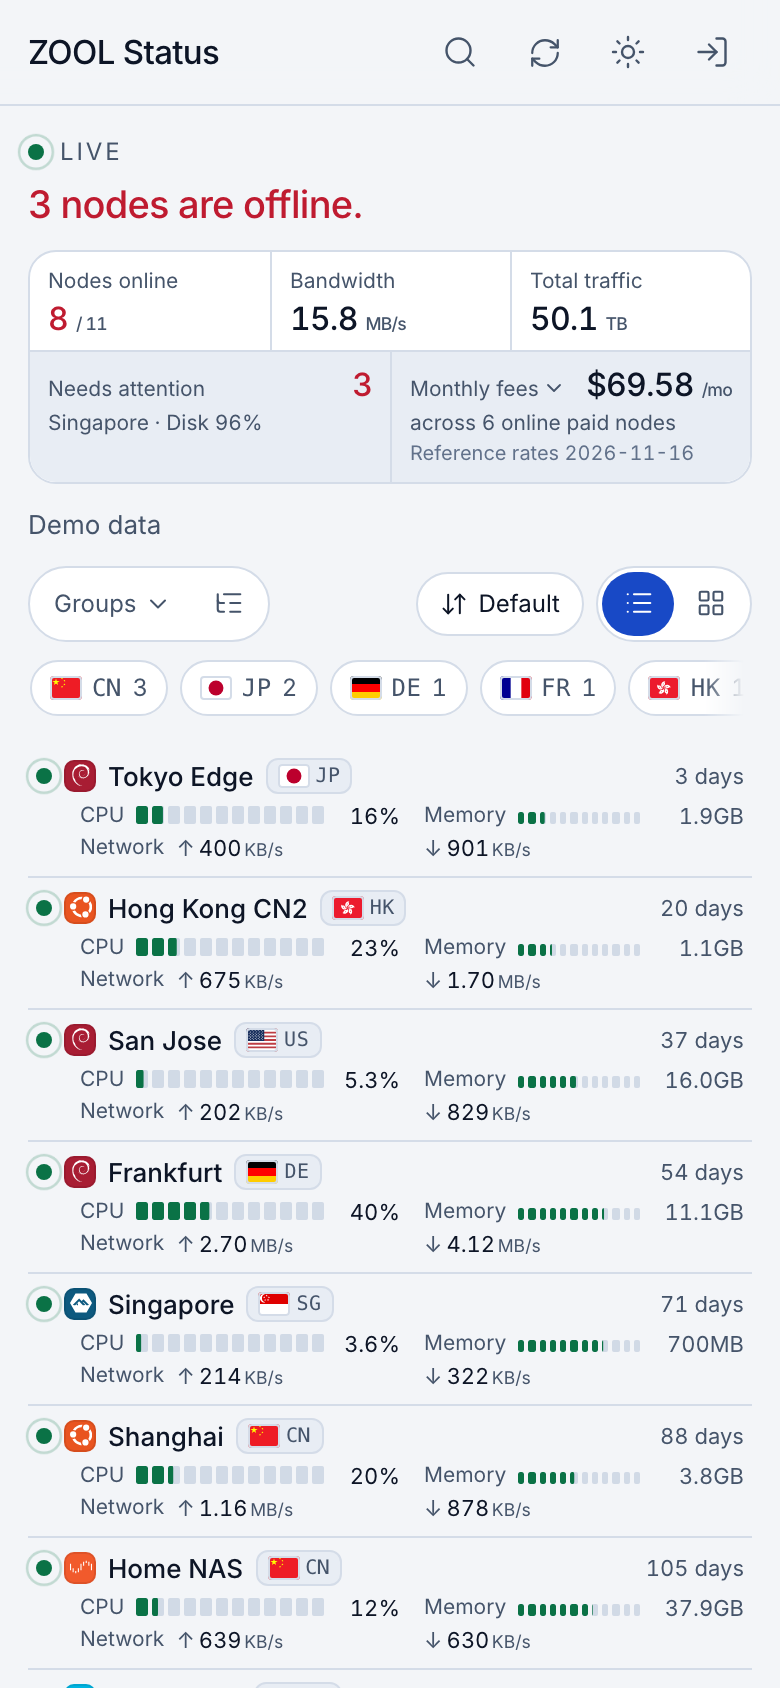
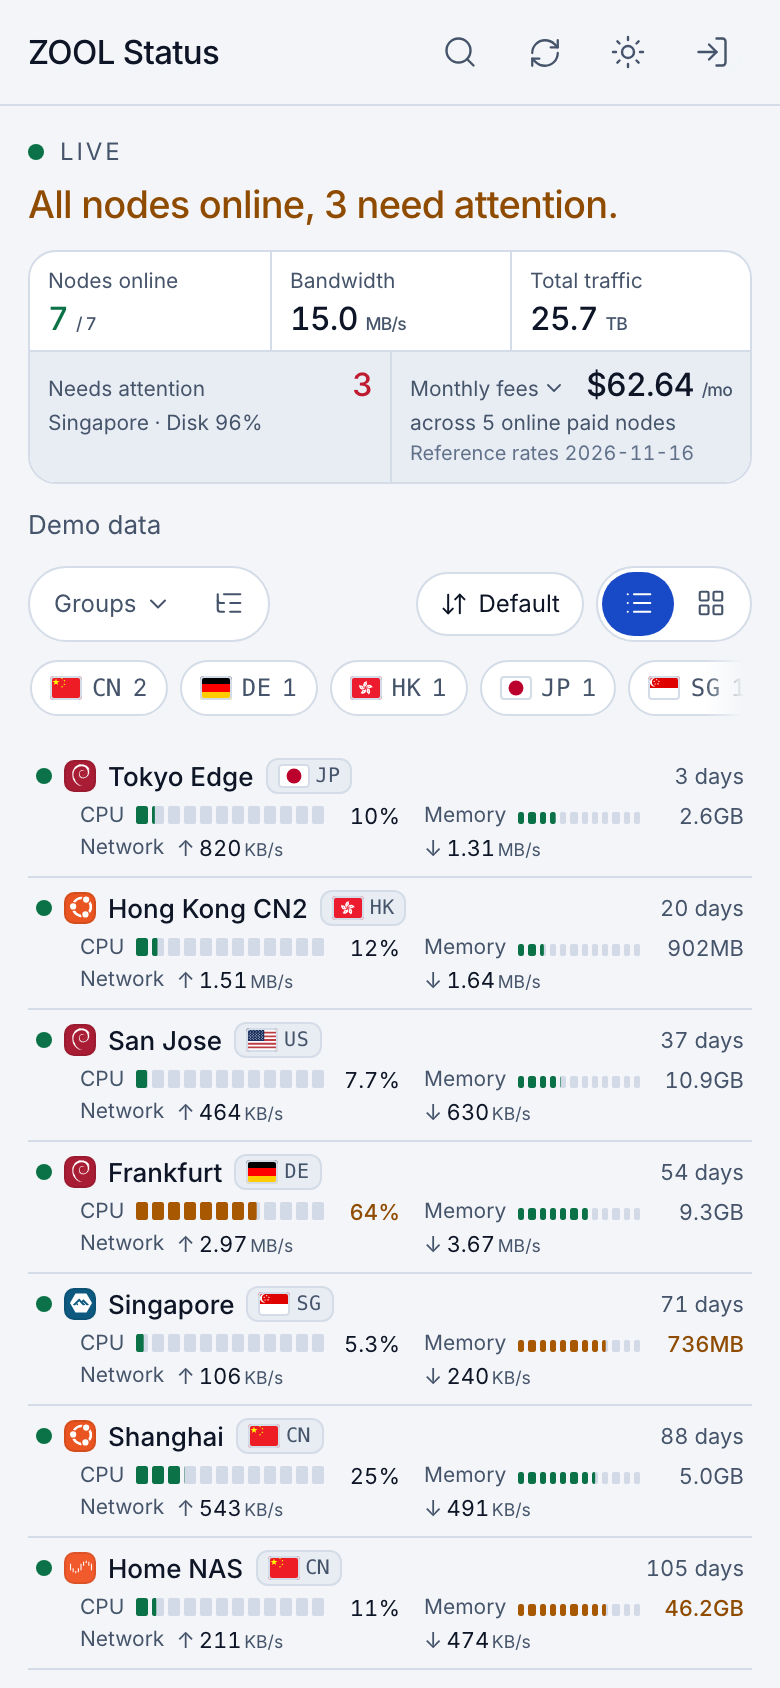
docs: generate reproducible English and Chinese README screenshots

diff --git a/docs/screenshot-demo.ts b/docs/screenshot-demo.ts
@@ -1,0 +1,26 @@
+import demo from '../apps/frontend/src/adapters/demo'
+import type { MonitorAdapter } from '../apps/frontend/src/core/model'
+
+// Use the reporting demo nodes and a single live frame for a still photograph.
+export default {
+  ...demo,
+  async loadSite() {
+    const site = await demo.loadSite()
+    return {
+      ...site,
+      description: document.documentElement.lang === 'zh-CN' ? '演示数据' : site.description,
+      settings: { ...site.settings, hiddenNodes: ['demo-8', 'demo-9', 'demo-10', 'demo-11'] },
+    }
+  },
+  subscribe(listener, onStatus) {
+    const stop = demo.subscribe(listener, onStatus)
+    stop()
+    return stop
+  },
+  loadRecent: (id, minutes) => demo.loadHistory(id, minutes / 60),
+  async loadPing(id, hours) {
+    const { tasks, points } = await demo.loadPing(id, hours)
+    const names = document.documentElement.lang === 'zh-CN' ? ['边缘探针', '核心探针'] : ['Edge probe', 'Core probe']
+    return { tasks: tasks.map((task, i) => ({ ...task, name: names[i] })), points }
+  },
+} satisfies MonitorAdapter

diff --git a/README.zh-CN.md b/README.zh-CN.md
@@ -18,8 +18,8 @@
 
 <p align="center">
   <picture>
-    <source media="(prefers-color-scheme: dark)" srcset="docs/screenshots/frontend-cards-dark.png" />
-    <img src="docs/screenshots/frontend-ledger-light.png" alt="nezha-zool-theme 公开状态页预览" width="100%" />
+    <source media="(prefers-color-scheme: dark)" srcset="docs/screenshots/zh-CN/frontend-cards-dark.png" />
+    <img src="docs/screenshots/zh-CN/frontend-ledger-light.png" alt="nezha-zool-theme 公开状态页预览" width="100%" />
   </picture>
 </p>
 
@@ -56,17 +56,19 @@
 
 以下截图均通过内置演示数据与 Mock API 在 `2×` Retina 分辨率下实机渲染，涵盖 **桌面端（`1440px`）**、**平板端（`834px`）** 与 **手机端（`390px`）** 不同屏幕尺寸及 **浅色 / 深色** 主题。
 
+安装 Playwright Chromium（`pnpm --dir apps/admin exec playwright install chromium`）后，运行 `NZT_DOCS_LANG=zh-CN pnpm screenshots` 生成简体中文截图，或运行 `pnpm screenshots` 生成英文截图。
+
 ### 1. 公开状态页 — 桌面端（`1440px`）
 
 #### 首页：台账列表视图（浅色） vs. 卡片网格视图（深色）
 <table>
   <tr>
     <td width="50%" align="center">
-      <img src="docs/screenshots/frontend-ledger-light.png" alt="前台桌面端台账浅色模式" />
+      <img src="docs/screenshots/zh-CN/frontend-ledger-light.png" alt="前台桌面端台账浅色模式" />
       <br /><sub><strong>浅色 · Ledger 台账视图</strong> — 集群总览、地区筛选、多币种月费汇总与高密度指标行</sub>
     </td>
     <td width="50%" align="center">
-      <img src="docs/screenshots/frontend-cards-dark.png" alt="前台桌面端卡片深色模式" />
+      <img src="docs/screenshots/zh-CN/frontend-cards-dark.png" alt="前台桌面端卡片深色模式" />
       <br /><sub><strong>深色 · Cards 卡片视图</strong> — 实时吞吐微图、告警/到期角标与账单标签</sub>
     </td>
   </tr>
@@ -76,11 +78,11 @@
 <table>
   <tr>
     <td width="50%" align="center">
-      <img src="docs/screenshots/frontend-node-light.png" alt="节点详情浅色模式" />
+      <img src="docs/screenshots/zh-CN/frontend-node-light.png" alt="节点详情浅色模式" />
       <br /><sub><strong>浅色 · 节点详情</strong> — SVG 环形仪表、硬件/网络/账单信息台账与 7 天上报热力条</sub>
     </td>
     <td width="50%" align="center">
-      <img src="docs/screenshots/frontend-node-dark.png" alt="节点详情深色模式" />
+      <img src="docs/screenshots/zh-CN/frontend-node-dark.png" alt="节点详情深色模式" />
       <br /><sub><strong>深色 · 节点详情</strong> — 磁盘预警阈值着色与高负载状态展示</sub>
     </td>
   </tr>
@@ -90,11 +92,11 @@
 <table>
   <tr>
     <td width="50%" align="center">
-      <img src="docs/screenshots/frontend-charts-dark.png" alt="24小时TSDB历史负载深色模式" />
+      <img src="docs/screenshots/zh-CN/frontend-charts-dark.png" alt="24小时TSDB历史负载深色模式" />
       <br /><sub><strong>深色 · 24h 历史负载</strong> — CPU、内存、磁盘、网络、连接数与负载/进程六宫格面积图</sub>
     </td>
     <td width="50%" align="center">
-      <img src="docs/screenshots/frontend-latency-light.png" alt="多探针服务延迟浅色模式" />
+      <img src="docs/screenshots/zh-CN/frontend-latency-light.png" alt="多探针服务延迟浅色模式" />
       <br /><sub><strong>浅色 · 服务监控延迟</strong> — 多探针 RTT 历史曲线、时间跨度切换与 <em>Hide spikes</em> 削峰过滤</sub>
     </td>
   </tr>
@@ -108,11 +110,11 @@
 <table>
   <tr>
     <td width="50%" align="center">
-      <img src="docs/screenshots/admin-servers-light.png" alt="管理后台服务器列表浅色模式" />
+      <img src="docs/screenshots/zh-CN/admin-servers-light.png" alt="管理后台服务器列表浅色模式" />
       <br /><sub><strong>浅色 · 服务器列表</strong> — 96rem 宽屏表格、双栈 IP 堆叠、批量操作栏与一键安装命令</sub>
     </td>
     <td width="50%" align="center">
-      <img src="docs/screenshots/admin-servers-dark.png" alt="管理后台服务器列表深色模式" />
+      <img src="docs/screenshots/zh-CN/admin-servers-dark.png" alt="管理后台服务器列表深色模式" />
       <br /><sub><strong>深色 · 服务器列表</strong> — 低眩光深色层级，适合夜间运维</sub>
     </td>
   </tr>
@@ -122,11 +124,11 @@
 <table>
   <tr>
     <td width="50%" align="center">
-      <img src="docs/screenshots/admin-services-light.png" alt="管理后台服务监控浅色模式" />
+      <img src="docs/screenshots/zh-CN/admin-services-light.png" alt="管理后台服务监控浅色模式" />
       <br /><sub><strong>浅色 · 服务监控</strong> — ICMP / TCP / HTTPS 拨测规则、延迟阈值与排除节点配置</sub>
     </td>
     <td width="50%" align="center">
-      <img src="docs/screenshots/admin-settings-dark.png" alt="管理后台系统设置深色模式" />
+      <img src="docs/screenshots/zh-CN/admin-settings-dark.png" alt="管理后台系统设置深色模式" />
       <br /><sub><strong>深色 · 系统设置</strong> — 站点名称、自定义前后台模板选择、DNS 与 Agent 接入配置</sub>
     </td>
   </tr>
@@ -139,11 +141,11 @@
 <table>
   <tr>
     <td width="50%" align="center">
-      <img src="docs/screenshots/frontend-tablet-light.png" alt="前台平板端分组卡片浅色模式" />
+      <img src="docs/screenshots/zh-CN/frontend-tablet-light.png" alt="前台平板端分组卡片浅色模式" />
       <br /><sub><strong>公开状态页 · 浅色（834×1112）</strong> — 双列卡片视图按服务器分组（<em>Edge</em> / <em>Core</em>）聚合</sub>
     </td>
     <td width="50%" align="center">
-      <img src="docs/screenshots/admin-tablet-dark.png" alt="管理后台平板端告警规则深色模式" />
+      <img src="docs/screenshots/zh-CN/admin-tablet-dark.png" alt="管理后台平板端告警规则深色模式" />
       <br /><sub><strong>管理后台 · 深色（834×980）</strong> — 告警规则管理与左上角响应式下拉导航</sub>
     </td>
   </tr>
@@ -156,19 +158,19 @@
 <table>
   <tr>
     <td width="25%" align="center">
-      <img src="docs/screenshots/frontend-mobile-light.png" alt="前台手机端首页浅色模式" />
+      <img src="docs/screenshots/zh-CN/frontend-mobile-light.png" alt="前台手机端首页浅色模式" />
       <br /><sub><strong>公开首页 · 浅色</strong><br />移动端总览卡片与紧凑列表</sub>
     </td>
     <td width="25%" align="center">
-      <img src="docs/screenshots/frontend-mobile-dark.png" alt="前台手机端详情深色模式" />
+      <img src="docs/screenshots/zh-CN/frontend-mobile-dark.png" alt="前台手机端详情深色模式" />
       <br /><sub><strong>节点详情 · 深色</strong><br />自适应 2×2 环形仪表</sub>
     </td>
     <td width="25%" align="center">
-      <img src="docs/screenshots/admin-mobile-light.png" alt="后台手机端卡片浅色模式" />
+      <img src="docs/screenshots/zh-CN/admin-mobile-light.png" alt="后台手机端卡片浅色模式" />
       <br /><sub><strong>后台服务器 · 浅色</strong><br />窄屏触控友好的卡片行</sub>
     </td>
     <td width="25%" align="center">
-      <img src="docs/screenshots/admin-mobile-dark.png" alt="后台手机端导航菜单深色模式" />
+      <img src="docs/screenshots/zh-CN/admin-mobile-dark.png" alt="后台手机端导航菜单深色模式" />
       <br /><sub><strong>后台导航 · 深色</strong><br />顶部下拉快速切换页面</sub>
     </td>
   </tr>

diff --git a/README.md b/README.md
@@ -56,6 +56,8 @@
 
 All screenshots below are rendered at `2×` Retina resolution using synthetic fleet & API mock data across **Desktop (`1440px`)**, **Tablet (`834px`)**, and **Mobile (`390px`)** viewports in both **Light** and **Dark** themes.
 
+With Playwright Chromium installed (`pnpm --dir apps/admin exec playwright install chromium`), run `pnpm screenshots` for English or `NZT_DOCS_LANG=zh-CN pnpm screenshots` for Simplified Chinese.
+
 ### 1. Public Status Frontend — Desktop (`1440px`)
 
 #### Home Page: Ledger View (Light) vs. Cards View (Dark)
